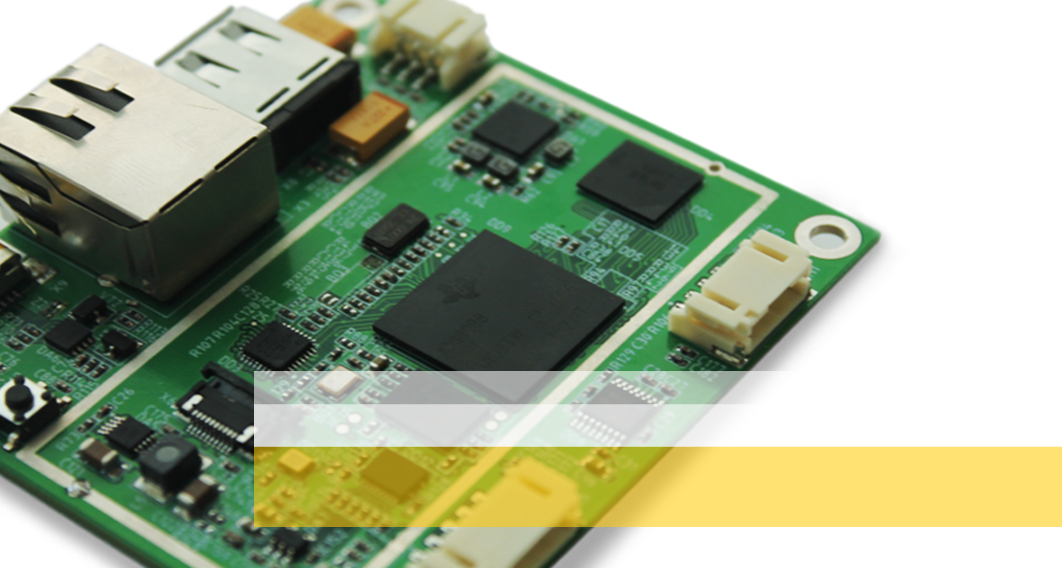
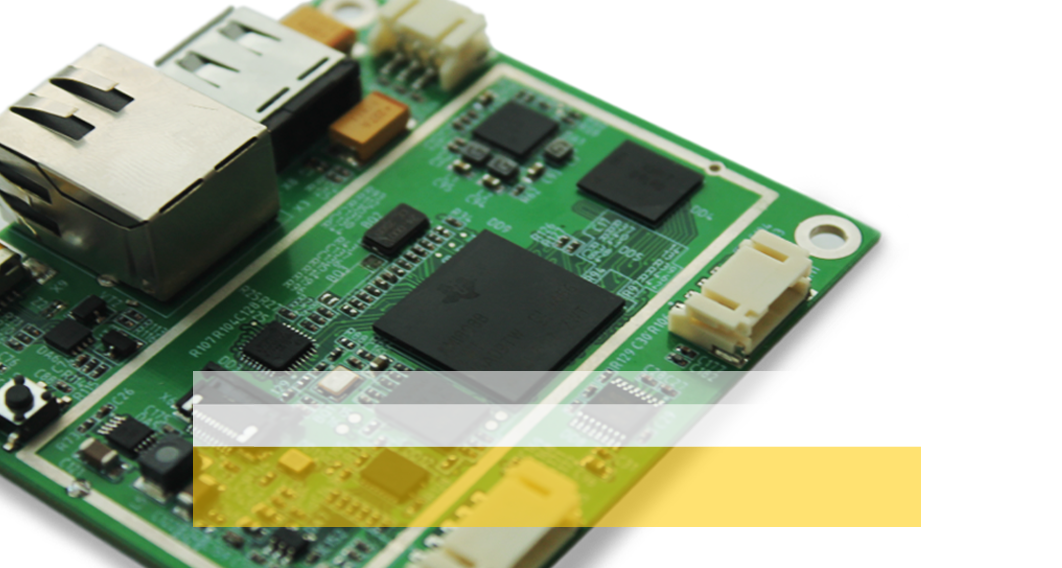
delete down

Changed region(s): [[0.1554, 0.6285, 0.2486, 0.9278], [0.8701, 0.7782, 1.0, 0.9278]]

diff --git a/index.html b/index.html
@@ -107,7 +107,7 @@
 		издаваемом Массачусетским технологическим институтом, опубликованого перечня десяти перспективных <br>
 		технологий, которые могут оказать наибольшее влияние на <br>человеческое общество.</div>
 				
-		<div class="down_m" id="down_t"><a><img class="down" src="img/down.png" /></a></div>
+		<!-- <div class="down_m" id="down_t"><a><img class="down" src="img/down.png" /></a></div> -->
 		<div class="top_m"><a><img class="top" src="img/up.png" /></a></div>
 	</div>
 	
@@ -120,7 +120,7 @@
 		Обучающие платформы для образовательных учреждений <br>Беспроводная связь</div> -->
 		<div id="soty"></div>
 				
-		<div class="down_m" id="down_mrk"><a><img class="down" src="img/down.png" /></a></div>
+		<!-- <div class="down_m" id="down_mrk"><a><img class="down" src="img/down.png" /></a></div> -->
 		<div class="top_m"><a><img class="top" src="img/up.png" /></a></div>
 	</div>
 	
@@ -138,7 +138,7 @@
 		<div class="name">Иван Елкин</div>
 		<div class="post end">Инженер-схемотехник, конструктор</div>
 		
-		<div class="down_m" id="down_k"><a><img class="down" src="img/down.png" /></a></div>
+		<!-- <div class="down_m" id="down_k"><a><img class="down" src="img/down.png" /></a></div> -->
 		<div class="top_m"><a><img class="top" src="img/up.png" /></a></div>	
 	</div>	
 </div>			

diff --git a/css/style.css b/css/style.css
@@ -189,14 +189,7 @@ h1{
 	position:relative; 
 	display:none;
 }
-#sht3{
-	overflow:hidden;
-	width:1062px;
-	height:570px;
-	/*  margin:0 0 0 75px;  */
-	position:absolute; 
-	display:none; 
-}
+
 
 .shtuka {
 	position:relative;
@@ -238,11 +231,12 @@ h1{
 	margin: -478px 0 0 833px;
 }
 .qubik {
-	margin:-540px 0 0 555px;
+	margin:-550px 0 0 530px;
 }
 .qubik > span {
 /* 	color:#FECE00; */
-	color:#027ed0;
+/* 	color:#027ed0; */
+	color:#DDAF00; 
 }
 .qubik1{
 	position:absolute;
@@ -275,7 +269,7 @@ h1{
 }
 /* ___________ table________________ */
 #table1 {
-	margin:-200px 0 0 280px;
+	margin:-200px 0 0 195px;
 	border-spacing:45px 12px;
 	width:700px;
 	height:72px;
@@ -320,7 +314,7 @@ h1{
 
 /* ___________ /table________________ */
 .text2_img {
-	margin:4px 0 0 318px;
+	margin:4px 0 0 225px;
 	width:666px;
 	height:53px;
 }
@@ -444,7 +438,7 @@ h1{
 }
 #marketing .top_m {
 	position:absolute;
-	margin-top:450px;
+	margin-top:-16px;
 	margin-left:1023px;
 	width:26px;
 	height:17px;
